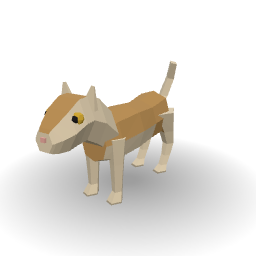
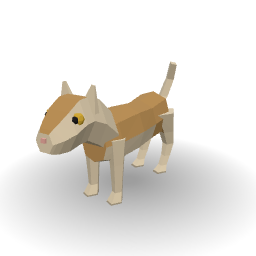
Cats: kitten's ears grow with its head; float comparison; tuxedo label
Fixes from the final review (Fable): head_k is compared with math.isclose (S1244),
the kitten's ears scale with its head, the tuxedo's white part names the muzzle too,
and NOTES records the adult cats' Walk that closes only within the test's tolerance
(older than this change).

diff --git a/art/scripts/species_pets.py b/art/scripts/species_pets.py
@@ -225,7 +225,7 @@ def _cat_head_coat(d, c, n):
 def _cat_ears(cm, d, bm):
     skull = d.skull
     for s in (-1, 1):
-        cm.add_box(bm, (s * skull[2] * 0.7, skull[0] + 0.005 * d.k, skull[1] + skull[3] * 0.85), (0.045 * d.k, 0.016 * d.k, 0.06 * d.k),
+        cm.add_box(bm, (s * skull[2] * 0.7, skull[0] + 0.005 * d.k, skull[1] + skull[3] * 0.85), (0.045 * d.k * d.hk, 0.016 * d.k * d.hk, 0.06 * d.k * d.hk),
                    taper=0.2, rot_deg=(0, s * 10, 0))
 
 
@@ -247,7 +247,7 @@ def make_cat(name, size=1.0, pattern="solid", c1="orange_cat", c2="paint_white",
     head = [(yy * k, dz * k, hw * k, hh * k) for yy, dz, hw, hh in                 # neck root first; the skull (ring 2) carries the ears, the cheeks (3) are the widest
             [(-0.13, 0.215, 0.060, 0.070), (-0.18, 0.255, 0.054, 0.064), (-0.222, 0.272, 0.052, 0.058), (-0.250, 0.270, 0.053, 0.058),
              (-0.285, 0.256, 0.052, 0.050), (-0.312, 0.245, 0.040, 0.038), (-0.326, 0.240, 0.030, 0.030), (-0.332, 0.237, 0.024, 0.024)]]
-    if head_k != 1.0:                                      # the neck root (ring 0) stays inside the shoulders; the rest grows about it
+    if not math.isclose(head_k, 1.0):                                      # the neck root (ring 0) stays inside the shoulders; the rest grows about it
         y0, z0 = head[0][:2]
         head = head[:1] + [(y0 + (y - y0) * head_k, z0 + (z - z0) * head_k, w * head_k, h * head_k) for y, z, w, h in head[1:]]
     fr = [(z * k, dy * k, hx * k, hy * k) for z, dy, hx, hy in
@@ -256,7 +256,7 @@ def make_cat(name, size=1.0, pattern="solid", c1="orange_cat", c2="paint_white",
           [(0.215, 0, 0.040, 0.055), (0.14, 0.03, 0.026, 0.034), (0.09, 0.045, 0.02, 0.024), (0.05, 0.03, 0.016, 0.02), (0.02, 0.01, 0.015, 0.02), (0.0, -0.01, 0.024, 0.03)]]
     tl = [(z * k, y * k * tail_len, r * k) for z, y, r in ((0.20, 0.17, 0.020), (0.25, 0.235, 0.018), (0.31, 0.26, 0.016), (0.37, 0.245, 0.014))]
     skull = head[2]
-    d = SimpleNamespace(k=k, cz0=cz0, pattern=pattern, c1=c1, c2=c2, c3=c3, head=head, skull=skull)
+    d = SimpleNamespace(k=k, hk=head_k, cz0=cz0, pattern=pattern, c1=c1, c2=c2, c3=c3, head=head, skull=skull)
 
     return {"name": name, "body": body, "head": head,
                 "front": {"x": 0.046 * k, "y": -0.12 * k, "joints": (1, 3), "profile": fr},

diff --git a/NOTES.md b/NOTES.md
@@ -276,7 +276,7 @@ The honeybee's two fore wings pass 0.06 mm apart above the thorax at the top of 
 **Not done:** the black wasp or hornet the owner means to add holds its wings up when landed (a different pose, not built); a resting bee holds its wings in a slight V, ours lie level one over the other; the right fore wing's float.
 
 ## Cats in the browser: tuxedo, calico, Siamese, kitten and the tabby's coats (2026-10-27, issue #125)
-First batch of issue #125 (species the generators define that the browser did not list). All eight cats of `species_pets.CATS` were already on the rebuilt cat of #87 and pass `audit_animals.py` (parts, joins, spacing, size, proportions) except the kitten, whose eyes were buried (3.3 mm showing, 4 mm needed): `make_cat` takes `head_k` (the head scaled about the neck root) and `eye`, and the kitten has a head 1.15 times the adult's (37 % of the trunk; estimated 35-45 % for a kitten) and an eye factor of 0.30 instead of 0.24 (the eye's radius is that factor times the head's height, so the eyes are about 1.44 times the adult's); it is checked against the adult cat's ranges, whose head cap (40 %) is below the larger kitten heads, and passes. Not changed: the tuxedo's coat and the calico's black patches share the black swatch with the pupils (as other animals' do), so repainting them also repaints the pupils. **In the browser:** `GN_CatTuxedo_faceted_01`, `GN_CatCalico_faceted_01`, `GN_CatSiamese_faceted_01` (variants of the tabby: the same mesh, the colours on other faces, so not a recolour) and `GN_CatKitten_faceted_01` (its own model: smaller, with a bigger head); the black, orange and grey cats are paints of the tabby (`catalog.PAINTS`, parts Stripes and Coat, Stripes first so the plain coats' chips differ from the tabbies'; presets Grey tabby, Orange, Black, Grey; the grey cat's 10 % fluff is dropped), per #48. Clips Idle and Walk (the cat's, 676 triangles each). Area names in `art/data/part_names.json`. The manifest rows were added from the four builds' facts and `make_manifest.py --catalog-only` (the full rebuild needs every model's `out/meta` file); every other row is kept exactly as it was (`--catalog-only` would also have changed the pig, caterpillar, tractor and sedan rows and the key order of some vehicle rows: older drift, not from this change). The site goes to 485 models. **Looked at:** the four thumbnails, the calico's Walk and the tabby's Black and Grey tabby paints in the site's viewer. **Not done:** the dogs (retriever, beagle, bulldog, dachshund, shepherd, stray) fail the proportion ranges on the old `make_dog` and are the next batch; then the wildlife and the turkey.
+First batch of issue #125 (species the generators define that the browser did not list). All eight cats of `species_pets.CATS` were already on the rebuilt cat of #87 and pass `audit_animals.py` (parts, joins, spacing, size, proportions) except the kitten, whose eyes were buried (3.3 mm showing, 4 mm needed): `make_cat` takes `head_k` (the head scaled about the neck root) and `eye`, and the kitten has a head 1.15 times the adult's (37 % of the trunk; estimated 35-45 % for a kitten) and an eye factor of 0.30 instead of 0.24 (the eye's radius is that factor times the head's height, so the eyes are about 1.44 times the adult's); it is checked against the adult cat's ranges, whose head cap (40 %) is below the larger kitten heads, and passes. Not changed: the tuxedo's coat and the calico's black patches share the black swatch with the pupils (as other animals' do), so repainting them also repaints the pupils. The kitten's ears grow with its head too (the final review: at the adult's size on a 1.15 times head they read small). Not done: the adult cats' Walk does not quite close in the GLB (up to 0.007 rad, 0.4 degrees, on the hind legs; `tests/test_glb_clips.py` passes it within its tolerance): the tabby on main has the same, it is the cat's walk cycle, older than this change, and the kitten's closes exactly. **In the browser:** `GN_CatTuxedo_faceted_01`, `GN_CatCalico_faceted_01`, `GN_CatSiamese_faceted_01` (variants of the tabby: the same mesh, the colours on other faces, so not a recolour) and `GN_CatKitten_faceted_01` (its own model: smaller, with a bigger head); the black, orange and grey cats are paints of the tabby (`catalog.PAINTS`, parts Stripes and Coat, Stripes first so the plain coats' chips differ from the tabbies'; presets Grey tabby, Orange, Black, Grey; the grey cat's 10 % fluff is dropped), per #48. Clips Idle and Walk (the cat's, 676 triangles each). Area names in `art/data/part_names.json`. The manifest rows were added from the four builds' facts and `make_manifest.py --catalog-only` (the full rebuild needs every model's `out/meta` file); every other row is kept exactly as it was (`--catalog-only` would also have changed the pig, caterpillar, tractor and sedan rows and the key order of some vehicle rows: older drift, not from this change). The site goes to 485 models. **Looked at:** the four thumbnails, the calico's Walk and the tabby's Black and Grey tabby paints in the site's viewer. **Not done:** the dogs (retriever, beagle, bulldog, dachshund, shepherd, stray) fail the proportion ranges on the old `make_dog` and are the next batch; then the wildlife and the turkey.
 
 ## Scope (2026-10-25)
 Decided by the owner: the library takes generic things of any kind, including extinct and fantasy animals and creatures, weapons and military vehicles of any era (medieval, modern, sci-fi; always generic by type and low-poly, never a named make or model, no trademarked designs), and garbage and junk. Out: brands and trademarked designs, characters from other works, scanned or realistic models, and sexually explicit content (adult material, if wanted, is a separate project, not this public repository). The game's catalogue (`docs/from-game/art/prop-catalogue.md`) says real weapons are not catalogued; that was the game's rule and no longer applies here. The groups are tracked as issues (#117 to #148); the README no longer lists them.
